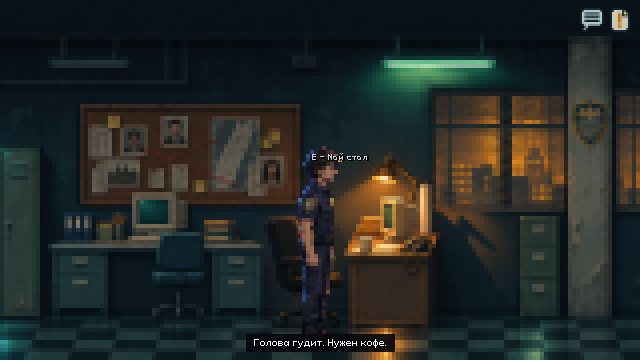
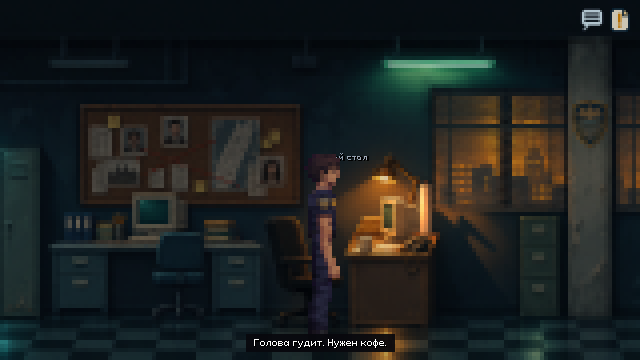
[Э3][s01] walk: Alexei rigged from body parts (tools/rig_walk.py), depth rows, prompt on top

diff --git a/tools/rig_walk.py b/tools/rig_walk.py
@@ -1,0 +1,169 @@
+#!/usr/bin/env python3
+"""Build a natural side-view walk cycle from separate body parts (cutout rig), rendered
+offline at high resolution and then downscaled to the game's pixel grid — so the
+result is clean pixel art (no in-engine rotation jaggies).
+
+Parts sheet: one row on #FF00FF, in order: head, torso, upper arm, forearm+hand,
+thigh, shin, foot. Limbs hang straight down with the joint at the top centre.
+
+  python3 tools/rig_walk.py art/drafts/alexei_parts/parts_v1_a.png --height 50 --pixel 4 \
+      --scales 1.0,0.93,0.86 --out assets/characters/alexei/walk_rig.png --gif art/previews/alexei_rig.gif
+
+Output: one sheet per scale stacked vertically; each row = 2 idle + 8 walk frames.
+"""
+from __future__ import annotations
+
+import argparse
+import math
+import sys
+from pathlib import Path
+
+from PIL import Image, ImageEnhance
+
+sys.path.insert(0, str(Path(__file__).resolve().parent))
+from pixelize import harden_alpha, remove_background  # noqa: E402
+from slice_sheet import find_frames  # noqa: E402
+
+NAMES = ["head", "torso", "uarm", "farm", "thigh", "shin", "foot"]
+
+
+def load_parts(path: Path) -> dict[str, Image.Image]:
+    img = remove_background(Image.open(path), 90)
+    parts = {}
+    for name, (x0, x1) in zip(NAMES, find_frames(img, 4, 6)):
+        c = img.crop((x0, 0, x1, img.height))
+        parts[name] = c.crop(c.getbbox())
+    return parts
+
+
+def paste_rot(canvas: Image.Image, part: Image.Image, pivot_in_part: tuple[float, float], at: tuple[float, float], deg: float) -> None:
+    """Rotate `part` by deg (positive = its bottom swings forward/right) around its pivot and
+    place that pivot at `at` on the canvas."""
+    w, h = part.size
+    pad = int(math.hypot(w, h)) + 4
+    big = Image.new("RGBA", (pad * 2, pad * 2), (0, 0, 0, 0))
+    px, py = pivot_in_part
+    big.paste(part, (int(pad - px), int(pad - py)), part)
+    rot = big.rotate(deg, resample=Image.BICUBIC, center=(pad, pad))
+    canvas.alpha_composite(rot, (int(at[0] - pad), int(at[1] - pad)))
+
+
+def end_point(at: tuple[float, float], length: float, deg: float) -> tuple[float, float]:
+    a = math.radians(deg)
+    return (at[0] - math.sin(a) * length * -1.0 * -1.0 + 0 if False else at[0] + math.sin(a) * length, at[1] + math.cos(a) * length)
+
+
+def shade(img: Image.Image, k: float) -> Image.Image:
+    rgb = ImageEnhance.Brightness(img.convert("RGB")).enhance(k).convert("RGBA")
+    rgb.putalpha(img.getchannel("A"))
+    return rgb
+
+
+def pose(parts: dict[str, Image.Image], p: float | None, breathe: float = 0.0) -> Image.Image:
+    P = parts
+    W, H = 2600, 3000
+    cv = Image.new("RGBA", (W, H), (0, 0, 0, 0))
+    hip = (W / 2, 1300.0)
+    ov = 0.10  # joint overlap fraction
+    L_th = P["thigh"].height * (1 - ov)
+    L_sh = P["shin"].height * (1 - ov)
+    L_ua = P["uarm"].height * (1 - ov)
+    if p is None:  # idle
+        legs = [(2.0, 4.0, -2.0), (-2.0, 4.0, 2.0)]
+        arms = [(3.0, 8.0), (-3.0, 8.0)]
+        bob = breathe
+    else:
+        legs = []
+        for q in (p, p + math.pi):
+            th = 24 * math.sin(q)
+            kn = 6 + 42 * max(0.0, math.cos(q)) ** 1.4
+            ft = -(th - kn) * 0.55 + (12 if math.cos(q) > 0.6 else 0)
+            legs.append((th, kn, ft))
+        arms = [(-16 * math.sin(q), 10 + 16 * max(0.0, -math.sin(q))) for q in (p, p + math.pi)]
+        bob = 0.0
+
+    def leg(th: float, kn: float, ft: float, dark: bool) -> None:
+        th_img, sh_img, ft_img = P["thigh"], P["shin"], P["foot"]
+        if dark:
+            th_img, sh_img, ft_img = shade(th_img, 0.62), shade(sh_img, 0.62), shade(ft_img, 0.62)
+        knee = end_point(hip, L_th, th)
+        ankle = end_point(knee, L_sh, th - kn)
+        paste_rot(cv, sh_img, (sh_img.width / 2, sh_img.height * 0.04), knee, th - kn)
+        paste_rot(cv, ft_img, (ft_img.width * 0.28, ft_img.height * 0.12), ankle, ft * 0.3)
+        paste_rot(cv, th_img, (th_img.width / 2, th_img.height * 0.05), hip, th)
+
+    def arm(sh_deg: float, el: float, dark: bool, shoulder: tuple[float, float]) -> None:
+        ua, fa = P["uarm"], P["farm"]
+        if dark:
+            ua, fa = shade(ua, 0.62), shade(fa, 0.62)
+        elbow = end_point(shoulder, L_ua, sh_deg)
+        paste_rot(cv, fa, (fa.width / 2, fa.height * 0.05), elbow, sh_deg + el)
+        paste_rot(cv, ua, (ua.width / 2, ua.height * 0.06), shoulder, sh_deg)
+
+    torso = P["torso"]
+    t_top = (hip[0], hip[1] + torso.height * 0.08 - torso.height + bob)
+    shoulder = (hip[0] + torso.width * 0.05, t_top[1] + torso.height * 0.12)
+    # far side first (darker, behind), then torso and head, then near side
+    leg(*legs[1], dark=True)
+    arm(*arms[1], dark=True, shoulder=shoulder)
+    cv.alpha_composite(torso, (int(hip[0] - torso.width / 2), int(t_top[1])))
+    head = P["head"]
+    cv.alpha_composite(head, (int(hip[0] - head.width * 0.45), int(t_top[1] - head.height * 0.82)))
+    leg(*legs[0], dark=False)
+    arm(*arms[0], dark=False, shoulder=shoulder)
+    return cv
+
+
+def main() -> int:
+    ap = argparse.ArgumentParser()
+    ap.add_argument("parts", type=Path)
+    ap.add_argument("--height", type=int, default=50, help="standing height in art pixels at scale 1")
+    ap.add_argument("--pixel", type=int, default=4)
+    ap.add_argument("--scales", default="1.0")
+    ap.add_argument("--out", type=Path, required=True)
+    ap.add_argument("--gif", type=Path)
+    a = ap.parse_args()
+    parts = load_parts(a.parts)
+    hires = [pose(parts, None, 0), pose(parts, None, -6)] + [pose(parts, i * 2 * math.pi / 8) for i in range(8)]
+    # common crop + ground the lowest pixel of every frame on the same line
+    bbs = [f.getbbox() for f in hires]
+    stand_h = bbs[0][3] - bbs[0][1]
+    left = min(b[0] for b in bbs) - 10
+    right = max(b[2] for b in bbs) + 10
+    top = min(b[1] for b in bbs) - 10
+    rows = []
+    for s in [float(v) for v in a.scales.split(",")]:
+        k = a.height * s / stand_h
+        cw = math.ceil((right - left) * a.height / stand_h) + 2  # same cell width in every row
+        ch = math.ceil(a.height * 1.08)
+        row = Image.new("RGBA", (cw * len(hires), ch), (0, 0, 0, 0))
+        for i, (f, b) in enumerate(zip(hires, bbs)):
+            c = f.crop((left, top, right, b[3]))
+            sm = harden_alpha(c.convert("RGBa").resize((max(1, round(c.width * k)), max(1, round(c.height * k))), Image.BOX).convert("RGBA"))
+            row.paste(sm, (i * cw + (cw - sm.width) // 2, ch - sm.height), sm)
+        rows.append(row)
+    W = max(r.width for r in rows)
+    sheet = Image.new("RGBA", (W, sum(r.height for r in rows)), (0, 0, 0, 0))
+    y = 0
+    for r in rows:
+        sheet.paste(r, (0, y))
+        y += r.height
+    sheet = sheet.resize((sheet.width * a.pixel, sheet.height * a.pixel), Image.NEAREST)
+    a.out.parent.mkdir(parents=True, exist_ok=True)
+    sheet.save(a.out)
+    print(f"ok {a.out} {sheet.size} rows={len(rows)} frames={len(hires)} row_heights={[r.height * a.pixel for r in rows]} cell_w={[r.width // len(hires) * a.pixel for r in rows]}")
+    if a.gif:
+        r0 = rows[0].resize((rows[0].width * a.pixel, rows[0].height * a.pixel), Image.NEAREST)
+        cw = r0.width // len(hires)
+        frames = []
+        for i in range(2, 10):
+            f = Image.new("RGBA", (cw + 40, r0.height + 20), (24, 28, 34, 255))
+            f.alpha_composite(r0.crop((i * cw, 0, (i + 1) * cw, r0.height)), (20, 10))
+            frames.append(f.convert("RGB").resize(((cw + 40) * 2, (r0.height + 20) * 2), Image.NEAREST))
+        frames[0].save(a.gif, save_all=True, append_images=frames[1:], duration=110, loop=0)
+        print(f"ok {a.gif}")
+    return 0
+
+
+if __name__ == "__main__":
+    raise SystemExit(main())

diff --git a/docs/STATUS.md b/docs/STATUS.md
@@ -4,7 +4,7 @@ Claude читает этот файл в начале каждой сессии 
 Режим согласования: STRICT
 Текущий этап: Э2 стиль принят (G2) → Э3 s01_precinct: визуал
 Следующий шаг: оценка пользователем (вентилятор, свет, стол, крупный план дела, вариант пикселизации) → крупные планы газеты и записки
-Ждёт согласования: зал с ходьбой в игре (оценка), черновые мысли у мест (data/dialogues/s01_walk.json)
+Ждёт согласования: зал с ходьбой — новая анимация (скелет), глубина, свет, новый порядок (оценка в игре)
 
 ## Окружение
 Godot: 4.7.2, путь: /Applications/Godot.app/Contents/MacOS/Godot
@@ -17,6 +17,7 @@ Codex CLI: 0.169.0 (Node 26 LTS через nvm), вход: да (ChatGPT)
 | s01_precinct | дизайн DRAFT | ТЗ DRAFT; bg_exposition (v1_c), bg_desk (по рефу 05), 3 документа-спрайта APPROVED; крупные планы TODO | экспозиция | экспозиция — черновик (речь, маркеры, пыль, кнопка); стол — заготовка | — |
 
 ## Последние действия (последние 5, новые сверху)
+- 2026-11-19 Э3: ходьба — Алексей из частей тела (rig), шаг к стене (W/S), темнее + живой свет, свободное исследование до сбора вещей и звонка
 - 2026-11-19 Э3: зал с ходьбой в Godot: после рапорта «нужен кофе» → ходьба → 2 кофе → звонит телефон → вернуться к столу → звонок
 - 2026-11-19 Э3: зал с ходьбой APPROVED (пиксель 4x) + спрайт Алексея; план реализации
 - 2026-11-19 Э3: выбран вариант сцены без доп. света (реф 20); крупнее пиксель (3x/4x); Алексей подогнан под цвета зала (tools/harmonize_walk.py)

diff --git a/docs/DECISIONS.md b/docs/DECISIONS.md
@@ -68,3 +68,9 @@ Pixeloid Sans / Sans Bold / Mono (GGBotNet, SIL OFL 1.1), 9 px. Файлы и л
 ## 22. Зал с ходьбой (2026-11-19)
 - Порядок s01: экспозиция → стол (документы, компьютер, рапорт) → «Нужен кофе» → **зал с ходьбой** (вид сбоку, пиксель 4x, Алексей ~200 px) → кофе, вторая кружка → звонит телефон у стола → вернуться, ответить → звонок отца.
 - `WalkPlayer` (A/D/стрелки, шаг по сетке 4 px), `walk.gd` (места из `data/dialogues/s01_walk.json`, подсказки только рядом с Алексеем, E/пробел/клик), камера по X в границах зала.
+
+## 23. Ходьба: скелетная анимация + глубина + свет (2026-11-19)
+- Алексей собран из частей тела (Codex, нейтральный свет без цветных бликов) скриптом `tools/rig_walk.py`: поза считается в высоком разрешении, затем уменьшается в сетку 4x — пиксели чистые, без поворотов в движке. Цикл шага 8 кадров + 2 кадра стояния.
+- Глубина: W/S — шаг к стене и обратно; дальше = меньше, по заранее отрисованным размерам (строки листа 1.0/0.93/0.86), без масштабирования в движке.
+- Свет зала: CanvasModulate (темнее) + PointLight2D: лампа Алексея, две зелёные лампы (мигают), тёплые окна, холодный свет слева; свет ложится и на Алексея.
+- Порядок: кофе → вторая кружка → «пора домой» → свободное исследование → вещи у стола → звонок там же.
